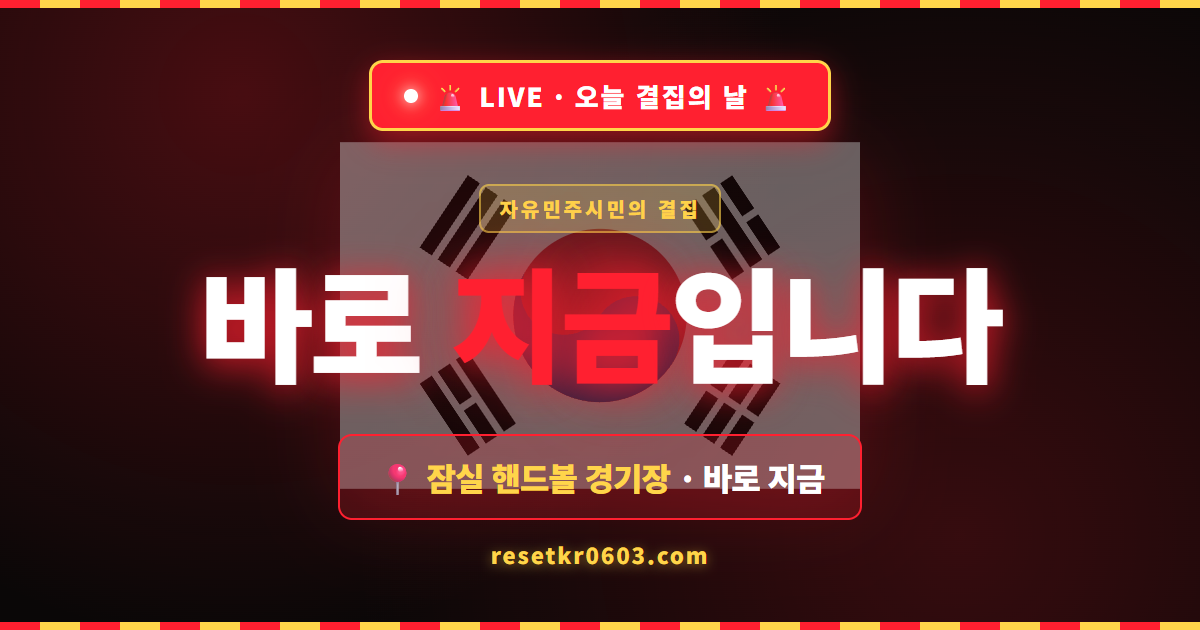
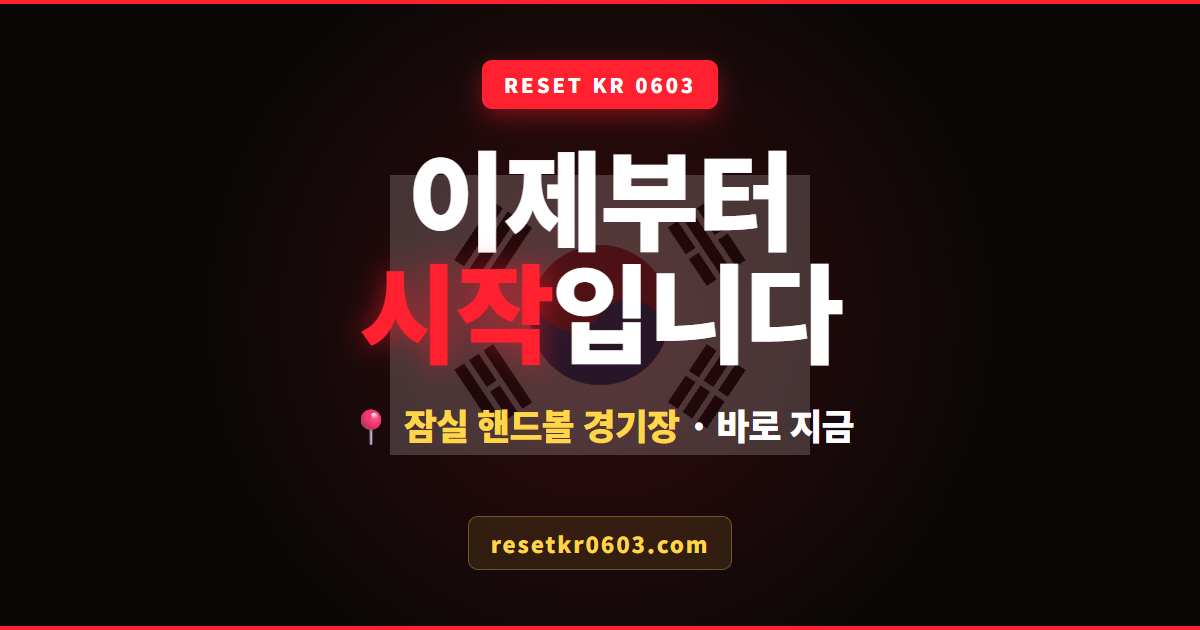
메타데이터 간결화

diff --git a/index.html b/index.html
@@ -4,13 +4,13 @@
 <head>
   <meta charset="utf-8" />
   <meta name="viewport" content="width=device-width, initial-scale=1, viewport-fit=cover" />
-  <title>[6.3 지방선거 국민 저항권] · 오늘 결집의 날</title>
-  <meta name="description" content="[6.3 지방선거 국민 저항권] — 오늘이 그 날입니다. 함께 모이고, 함께 외칩시다." />
-  <meta property="og:title" content="[6.3 지방선거 국민 저항권] · 오늘 결집의 날" />
-  <meta property="og:description" content="자유민주시민의 결집. 바로 지금, 잠실 핸드볼 경기장으로. 혼자서는 한 명, 모이면 만 명." />
+  <title>이제부터 시작입니다 · 잠실 결집</title>
+  <meta name="description" content="잠실 핸드볼 경기장 · 바로 지금. 결집 정보·실시간 라이브·길찾기 한 곳에." />
+  <meta property="og:title" content="이제부터 시작입니다" />
+  <meta property="og:description" content="잠실 핸드볼 경기장 · 바로 지금 / 결집 정보·실시간 라이브·길찾기" />
   <meta property="og:type" content="website" />
   <meta property="og:url" content="https://resetkr0603.com/" />
-  <meta property="og:image" content="https://resetkr0603.com/og.png?v=20260605a" />
+  <meta property="og:image" content="https://resetkr0603.com/og.png?v=20260605b" />
   <meta property="og:image:width" content="1200" />
   <meta property="og:image:height" content="630" />
   <meta name="twitter:card" content="summary_large_image" />